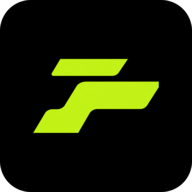
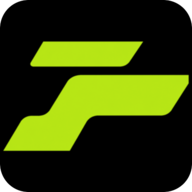
Published your App
Replit-Commit-Author: Deployment
Replit-Commit-Session-Id: 615d29e3-aad1-437b-aa0d-3aa31b47589e
Replit-Commit-Checkpoint-Type: full_checkpoint
Replit-Commit-Event-Id: 28b9ed19-f1a1-41ac-a34e-ad097d7a8305
Replit-Commit-Screenshot-Url: https://storage.googleapis.com/screenshot-production-us-central1/b1b82713-81e2-4cd2-b004-e7f1a6680937/615d29e3-aad1-437b-aa0d-3aa31b47589e/EkdQtr2
Replit-Commit-Deployment-Build-Id: 3437d317-d351-4171-b19e-3a918e0b89e3

diff --git a/server/photoStorage.ts b/server/photoStorage.ts
@@ -29,9 +29,14 @@ export const objectStorageClient = new Storage({
 
 export type PhotoLabel = "BEFORE" | "AFTER";
 
-async function burnLabel(buffer: Buffer, label: PhotoLabel): Promise<Buffer> {
+async function burnLabel(
+  buffer: Buffer,
+  label: PhotoLabel,
+  opts?: { topInset?: number },
+): Promise<Buffer> {
   const meta = await sharp(buffer).metadata();
   const w = meta.width ?? 1200;
+  const h = meta.height ?? 1200;
   const fontSize = Math.max(24, Math.round(w / 28));
   const padX = Math.round(fontSize * 0.7);
   const padY = Math.round(fontSize * 0.3);
@@ -48,8 +53,10 @@ async function burnLabel(buffer: Buffer, label: PhotoLabel): Promise<Buffer> {
     <text x="${padX}" y="${Math.round(fontSize + padY * 0.7)}" font-family="Inter, Arial, sans-serif"
           font-size="${fontSize}" font-weight="800" fill="black" letter-spacing="${letterSpacing}">${label}</text>
   </svg>`;
+  const left = Math.max(offset, w - boxW - offset);
+  const top = Math.min(Math.max(offset, opts?.topInset ?? offset), Math.max(offset, h - boxH - offset));
   return sharp(buffer)
-    .composite([{ input: Buffer.from(svg), top: offset, left: offset }])
+    .composite([{ input: Buffer.from(svg), top, left }])
     .jpeg({ quality: 88 })
     .toBuffer();
 }
@@ -93,8 +100,14 @@ export async function composeBeforeAfter(
       .resize({ width: targetW, height: halfH, fit: "cover", position: "centre" })
       .toBuffer(),
   ]);
+  // The BEFORE half sits at the very top of the 9:16 frame, which Facebook /
+  // Instagram Reels covers with the iOS status bar + Reels header overlay
+  // (~12% of frame height). Push the BEFORE badge down into the safe zone so
+  // it isn't hidden once the post is opened. AFTER is mid-screen so the
+  // default top offset is fine.
+  const beforeSafeTopInset = Math.round(targetH * 0.12);
   const [topBuf, bottomBuf] = await Promise.all([
-    burnLabel(topResized, "BEFORE"),
+    burnLabel(topResized, "BEFORE", { topInset: beforeSafeTopInset }),
     burnLabel(bottomResized, "AFTER"),
   ]);
 

diff --git a/client/src/pages/MetricsDashboard.tsx b/client/src/pages/MetricsDashboard.tsx
@@ -1346,6 +1346,22 @@ export default function MetricsDashboard() {
                     valueColor: netProfit >= 0 ? "" : "text-red-600",
                   },
                   {
+                    label: "Avg Profit Margin",
+                    value:
+                      (revenueStats?.jobsWithProfitTracking || 0) > 0
+                        ? `${(revenueStats?.grossMargin ?? 0).toFixed(1)}%`
+                        : "—",
+                    sub:
+                      (revenueStats?.jobsWithProfitTracking || 0) > 0
+                        ? `${revenueStats?.jobsWithProfitTracking} job${revenueStats?.jobsWithProfitTracking === 1 ? "" : "s"} with cost data`
+                        : "No jobs with cost data",
+                    valueColor:
+                      (revenueStats?.jobsWithProfitTracking || 0) > 0 &&
+                      (revenueStats?.grossMargin ?? 0) < 0
+                        ? "text-red-600"
+                        : "",
+                  },
+                  {
                     label: "Labour (est.)",
                     value: formatCurrency(labour).replace("NZ$", "$"),
                     sub: `~40% of ${hasXero ? "Xero revenue" : "revenue"}`,

diff --git a/client/index.html b/client/index.html
@@ -22,10 +22,10 @@
     <meta name="mobile-web-app-capable" content="yes">
     <meta name="format-detection" content="telephone=yes">
     <link rel="manifest" href="/manifest.json">
-    <link rel="apple-touch-icon" href="/inflow-icon-180.png?v=5">
-    <link rel="apple-touch-icon" sizes="180x180" href="/inflow-icon-180.png?v=5">
-    <link rel="apple-touch-icon" sizes="192x192" href="/inflow-icon-192.png?v=5">
-    <link rel="apple-touch-icon" sizes="512x512" href="/inflow-icon-512.png?v=5">
+    <link rel="apple-touch-icon" href="/inflow-icon-180.png?v=6">
+    <link rel="apple-touch-icon" sizes="180x180" href="/inflow-icon-180.png?v=6">
+    <link rel="apple-touch-icon" sizes="192x192" href="/inflow-icon-192.png?v=6">
+    <link rel="apple-touch-icon" sizes="512x512" href="/inflow-icon-512.png?v=6">
     
     <link rel="preconnect" href="https://fonts.googleapis.com">
     <link rel="preconnect" href="https://fonts.gstatic.com" crossorigin>

diff --git a/client/src/components/LogoSidebarTrigger.tsx b/client/src/components/LogoSidebarTrigger.tsx
@@ -25,8 +25,8 @@ export function LogoSidebarTrigger({ className = "", size = 44 }: LogoSidebarTri
       style={{
         width: size,
         height: size,
-        backgroundImage: "url(/logos/treemarkables-logo.png)",
-        backgroundSize: "118%",
+        backgroundImage: "url(/inflow-icon-192.png?v=6)",
+        backgroundSize: "100%",
         backgroundPosition: "center",
         backgroundRepeat: "no-repeat",
         overflow: "hidden",
